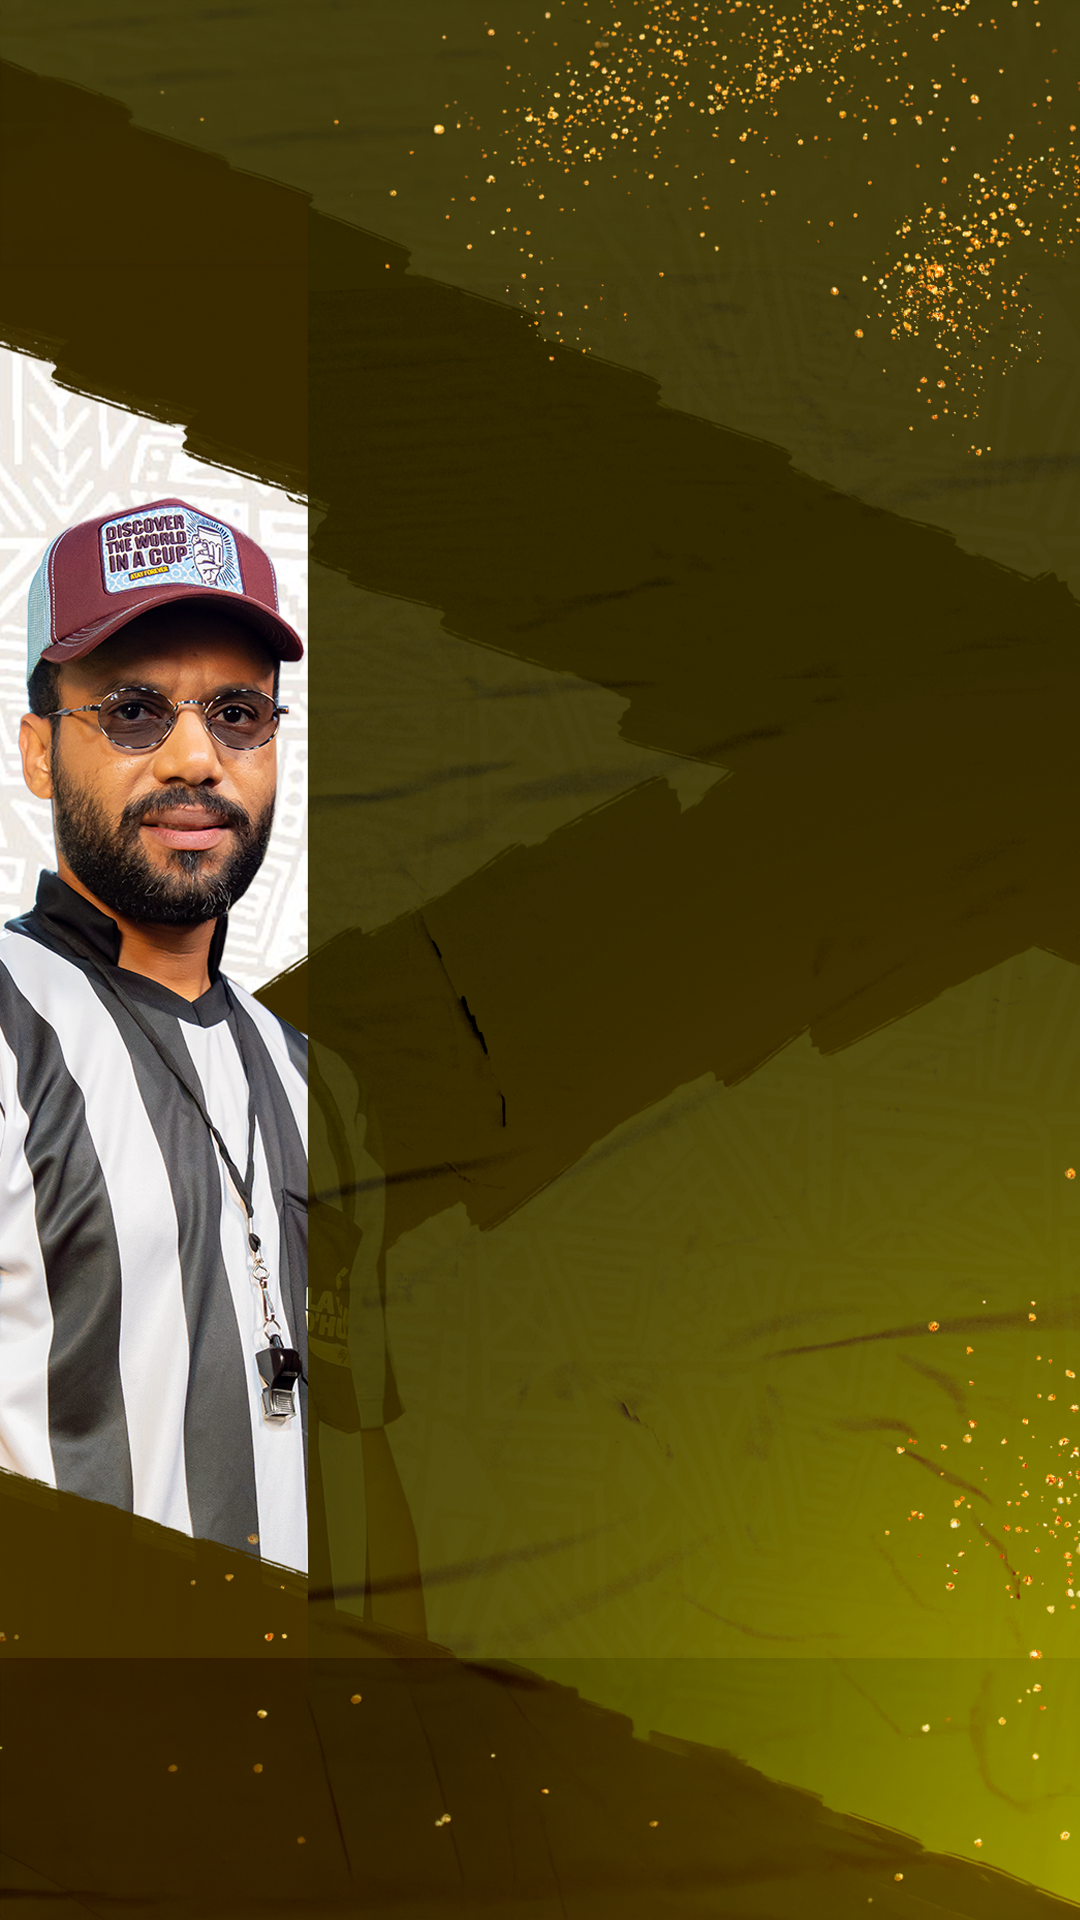
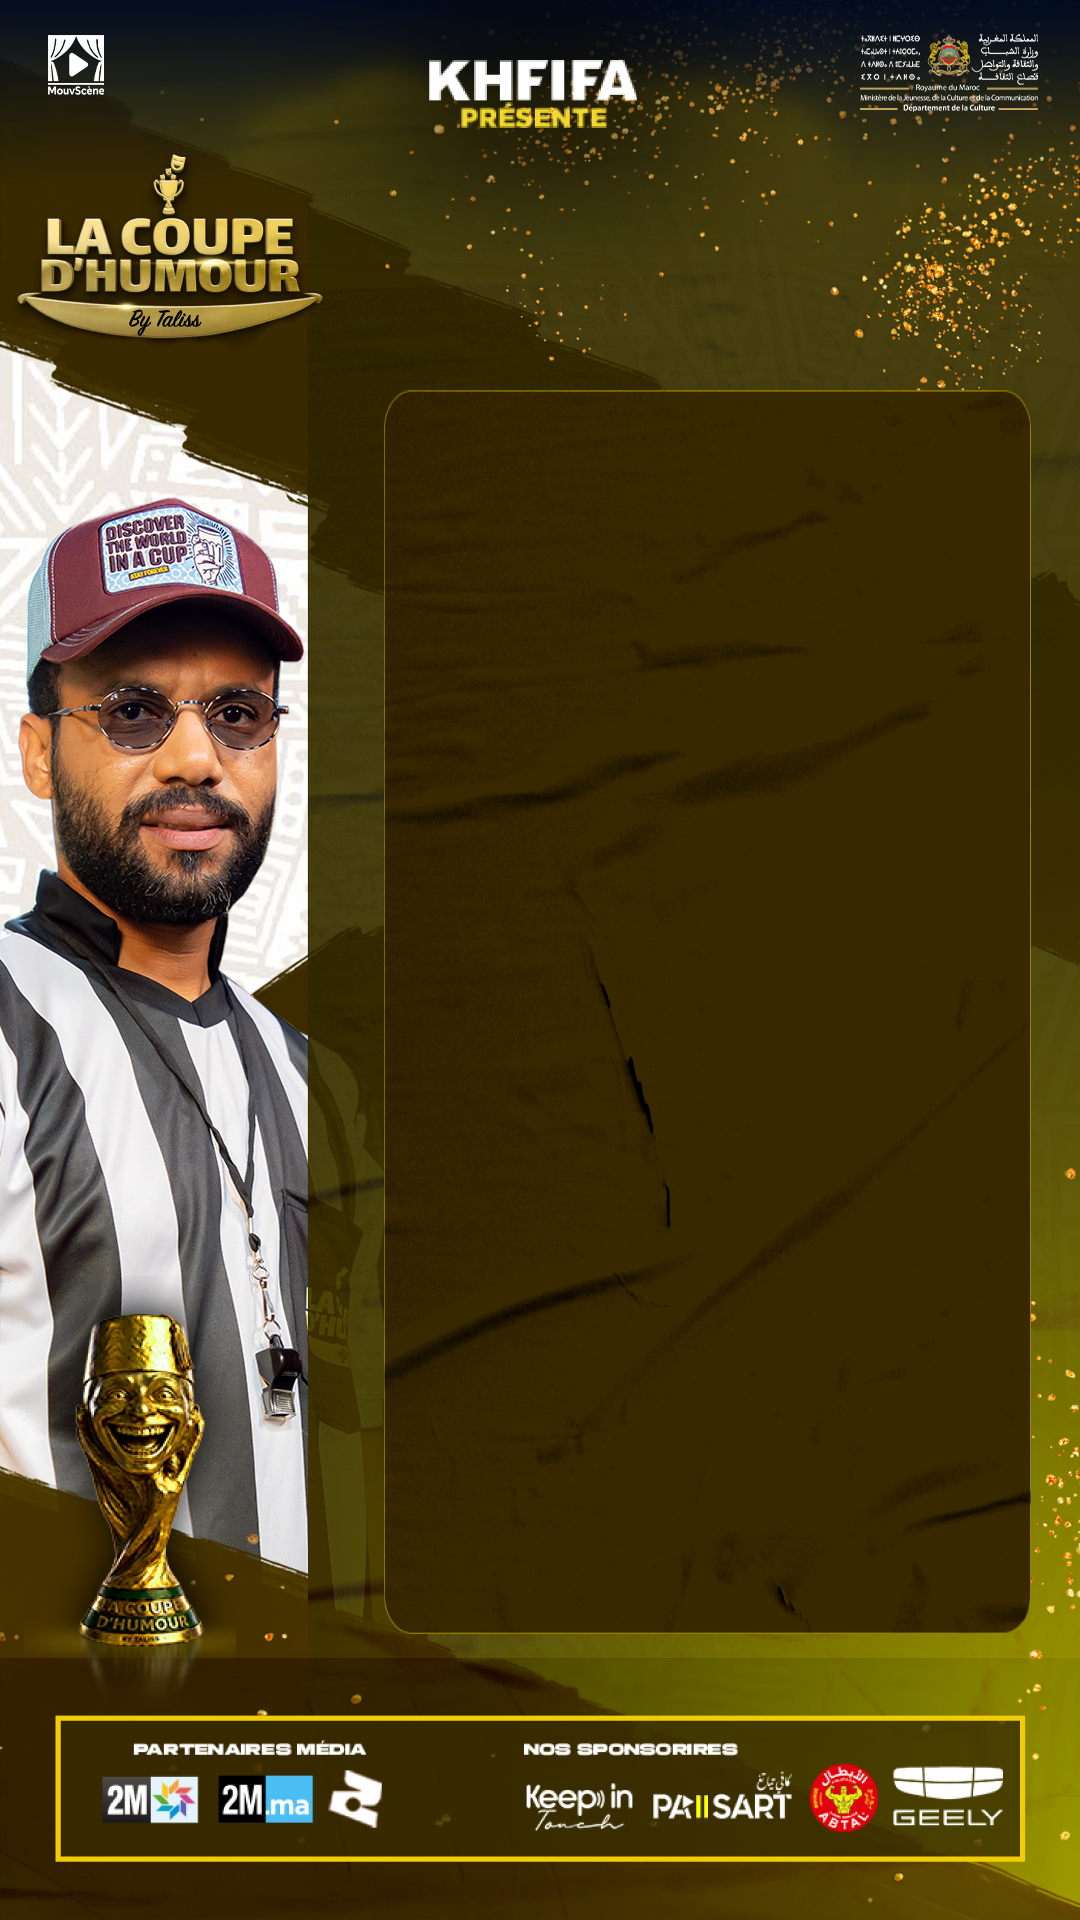
feat: implement ScalableLayout component and fullscreen functionality

diff --git a/app/(audience)/audience-shell.tsx b/app/(audience)/audience-shell.tsx
@@ -5,6 +5,7 @@ import { useCallback, useState } from "react";
 import { useEventStream } from "@/lib/hooks/useEventStream";
 import type { CurrentMatchStatus } from "@/lib/match-state";
 import type { RealtimeEvent } from "@/lib/redis";
+import ScalableLayout from "./scalableLayout";
 
 type Participant = CurrentMatchStatus["participants"][number];
 
@@ -62,27 +63,29 @@ export function AudienceShell({ initialStatus }: { initialStatus: CurrentMatchSt
 
   const { match, participants, hasVoted, votedPlayerId } = status;
 
-  if (!match) {
-    return <WaitingScreen />;
-  }
-
   return (
-    <VotingScreen
-      position={match.position}
-      participants={participants}
-      hasVoted={hasVoted}
-      votedPlayerId={votedPlayerId}
-      voting={voting}
-      voteError={voteError}
-      onVote={handleVote}
-    />
+    <ScalableLayout baseWidth={1080} baseHeight={1920}>
+      {!match ? (
+        <WaitingScreen />
+      ) : (
+        <VotingScreen
+          position={match.position}
+          participants={participants}
+          hasVoted={hasVoted}
+          votedPlayerId={votedPlayerId}
+          voting={voting}
+          voteError={voteError}
+          onVote={handleVote}
+        />
+      )}
+    </ScalableLayout>
   );
 }
 
 function WaitingScreen() {
   return (
     <div
-      className="flex min-h-screen flex-1 flex-col items-center justify-center bg-cover bg-center px-6 text-center"
+      className="flex h-full w-full flex-col items-center justify-center bg-cover bg-center px-6 text-center"
       style={{ backgroundImage: "url(/bg.png)" }}
     >
       <Image
@@ -120,7 +123,7 @@ function VotingScreen({
 
   return (
     <div
-      className="relative flex min-h-screen flex-1 flex-col bg-cover bg-center pb-8"
+      className="relative flex h-full w-full flex-col overflow-hidden bg-cover bg-center pb-8"
       style={{ backgroundImage: "url(/bg.png)" }}
     >
       <Image
@@ -212,22 +215,31 @@ function PlayerCard({
       type="button"
       onClick={onVote}
       disabled={disabled || !participant.photoUrl}
-      className="group relative w-full overflow-hidden rounded-2xl outline-none transition active:scale-95 disabled:cursor-not-allowed disabled:opacity-60"
+      className="group flex w-full flex-col items-center gap-1.5 outline-none disabled:cursor-not-allowed disabled:opacity-60"
     >
-      {participant.photoUrl ? (
-        <Image
-          src={participant.photoUrl}
-          alt={participant.name}
-          width={205}
-          height={234}
-          className="h-auto w-full"
-        />
-      ) : (
-        <div className="flex aspect-205/234 w-full items-center justify-center rounded-2xl bg-black/30 px-2 text-center text-xs text-amber-100">
-          {participant.name}
-        </div>
-      )}
-      <span className="pointer-events-none absolute inset-0 rounded-2xl ring-0 ring-amber-400 transition group-active:ring-4" />
+      <span className="relative w-full overflow-hidden rounded-2xl transition active:scale-95">
+        {participant.photoUrl ? (
+          <Image
+            src={participant.photoUrl}
+            alt={participant.name}
+            width={205}
+            height={234}
+            className="h-auto w-full"
+          />
+        ) : (
+          <div className="flex aspect-205/234 w-full items-center justify-center rounded-2xl bg-black/30 px-2 text-center text-xs text-amber-100">
+            {participant.name}
+          </div>
+        )}
+        <span className="pointer-events-none absolute inset-0 rounded-2xl ring-0 ring-amber-400 transition group-active:ring-4" />
+      </span>
+      <Image
+        src="/btn-votez.png"
+        alt="Votez"
+        width={167}
+        height={43}
+        className="w-20 transition group-active:scale-95"
+      />
     </button>
   );
 }

diff --git a/app/(audience)/scalableLayout.tsx b/app/(audience)/scalableLayout.tsx
@@ -1,0 +1,68 @@
+"use client";
+
+import React, { useSyncExternalStore, type ReactNode } from 'react';
+import {useFullscreen} from '../hooks/useFullScreenHooks'; // Import the hook
+
+interface ScalableLayoutProps {
+  children: ReactNode;
+  baseWidth?: number;
+  baseHeight?: number;
+  background?: string
+}
+
+function subscribeToResize(onResize: () => void) {
+  window.addEventListener('resize', onResize);
+  return () => window.removeEventListener('resize', onResize);
+}
+
+const ScalableLayout: React.FC<ScalableLayoutProps> = ({
+  children,
+  baseWidth = 1080,
+  baseHeight = 1920,
+  background = "#000"
+}) => {
+  const { handleDoubleTap, handleDoubleClick } = useFullscreen();
+
+  // Scale is derived from the viewport, an external store — subscribing this
+  // way (rather than an effect that calls setState) keeps the resize handler
+  // itself as the only place state changes, and gives a safe server snapshot
+  // for the initial SSR render.
+  const scale = useSyncExternalStore(
+    subscribeToResize,
+    () => Math.min(window.innerWidth / baseWidth, window.innerHeight / baseHeight),
+    () => 1,
+  );
+
+  return (
+    <div style={{
+        display: 'flex',
+        overflow: 'hidden',
+        justifyContent: 'center',
+        alignItems: 'center',
+        height: '100vh', 
+        width: '100vw',
+        background,
+    }}
+    onTouchEnd={handleDoubleTap}
+    onDoubleClick={handleDoubleClick}
+    >
+        <div
+        style={{
+            width: `${baseWidth}px`,
+            height: `${baseHeight}px`,
+            transform: `scale(${scale})`,
+            transformOrigin: 'center center',
+            display: 'flex',
+            justifyContent: 'center',
+            alignItems: 'center',
+            aspectRatio: baseWidth+"/"+baseHeight
+        }}
+        className='big-screen'
+        >
+        {children}
+        </div>
+    </div>
+  );
+};
+
+export default ScalableLayout;

diff --git a/app/hooks/useFullScreenHooks.ts b/app/hooks/useFullScreenHooks.ts
@@ -1,0 +1,42 @@
+"use client";
+
+import { useCallback, useRef } from "react";
+import type { TouchEvent } from "react";
+
+const DOUBLE_TAP_THRESHOLD_MS = 300;
+
+function toggleFullscreen() {
+  if (document.fullscreenElement) {
+    document.exitFullscreen().catch(() => {});
+  } else {
+    document.documentElement.requestFullscreen().catch(() => {});
+  }
+}
+
+/**
+ * Double-tap (touch) / double-click (mouse) toggles fullscreen — the
+ * standard interaction for an unattended, scaled kiosk-style display.
+ * touchend fires once per tap, so double-tap has to be detected manually
+ * from the gap between consecutive taps; dblclick already does this for us
+ * on desktop.
+ */
+export function useFullscreen() {
+  const lastTapAtRef = useRef(0);
+
+  const handleDoubleTap = useCallback((event: TouchEvent) => {
+    const now = Date.now();
+    if (now - lastTapAtRef.current < DOUBLE_TAP_THRESHOLD_MS) {
+      event.preventDefault();
+      toggleFullscreen();
+      lastTapAtRef.current = 0;
+    } else {
+      lastTapAtRef.current = now;
+    }
+  }, []);
+
+  const handleDoubleClick = useCallback(() => {
+    toggleFullscreen();
+  }, []);
+
+  return { handleDoubleTap, handleDoubleClick };
+}
